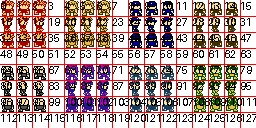
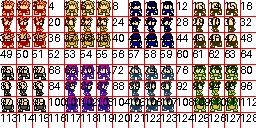
Animations boilerplate

diff --git a/tools/tilemap.py b/tools/tilemap.py
@@ -21,7 +21,7 @@ with Image.open(infile) as img:
     for x in range(0, cols):
       canvas.text(
         (x*cell_size, y*cell_size),
-        str(x + y*cell_size),
+        str(1 + x + y*cell_size),
         font_size=10
       )
 
